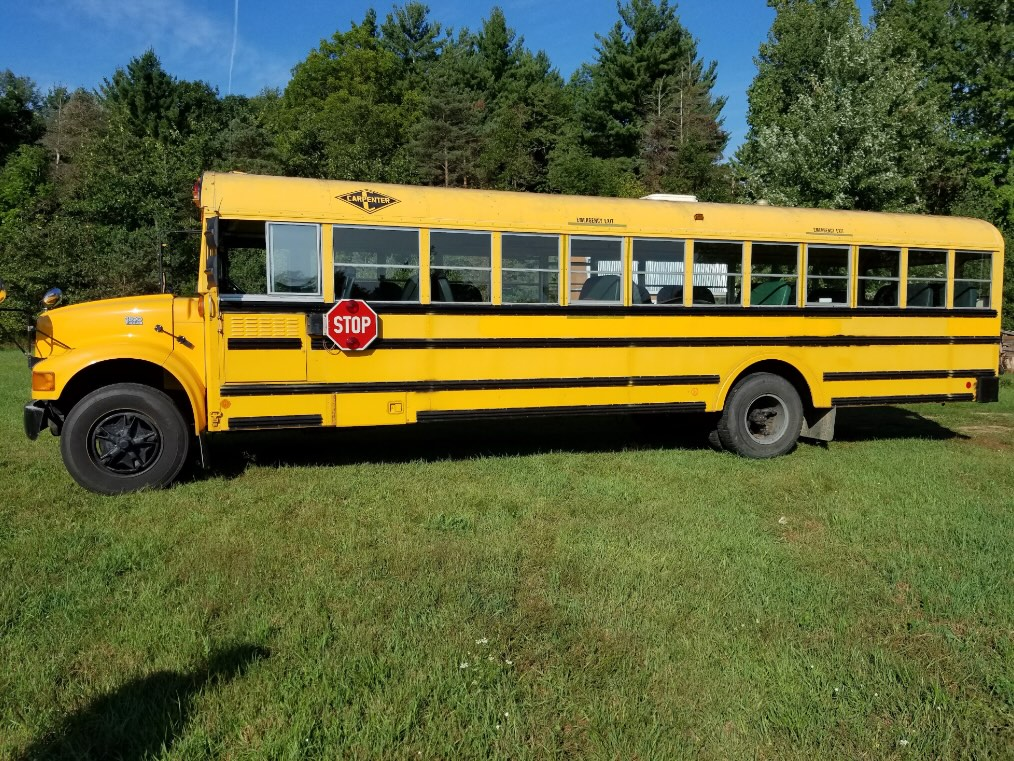
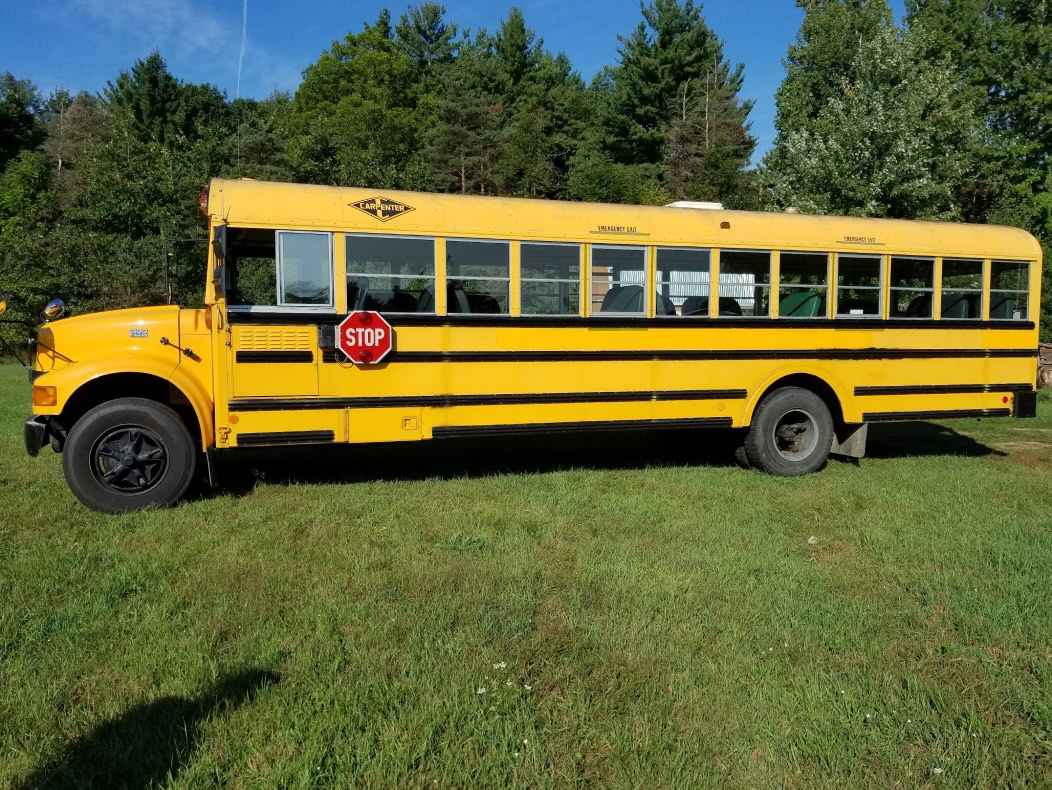
Swap the Skoolie photos for the build thread album
All 36 photos from the "Skoolie build thread" album replace the earlier
picks. Seven chapters now: retired from the route, raising the roof,
the front cap, paint, inside the shell, the rear ramp, finished. Plates
blurred in the three photos where they show.

diff --git a/builds/skoolie/index.html b/builds/skoolie/index.html
@@ -34,7 +34,7 @@
   <div class="bhero">
     <img src="img/finished.jpg" alt="The finished orange school bus, front three-quarter view, door open">
     <div class="over">
-      <div class="chips"><span class="tag y">BAY 02 · FOUR WHEELS</span><span class="tag">2016 – 2019</span><span class="tag">6 CHAPTERS</span></div>
+      <div class="chips"><span class="tag y">BAY 02 · FOUR WHEELS</span><span class="tag">2016 – 2019</span><span class="tag">7 CHAPTERS</span></div>
       <h1>Skoolie</h1>
       <p class="lede" style="color:var(--text)">A retired school bus with a raised roof, a garage in the back and a lounge up front. From the ‘alternative’ school to party bus.</p>
     </div>
@@ -66,91 +66,111 @@
     <nav class="rail" aria-label="Chapters">
       <a href="#ch-1"><b>01</b><span>Retired from the route</span></a>
       <a href="#ch-2"><b>02</b><span>Raising the roof</span></a>
-      <a href="#ch-3"><b>03</b><span>Not yellow any more</span></a>
-      <a href="#ch-4"><b>04</b><span>Inside the shell</span></a>
-      <a href="#ch-5"><b>05</b><span>Power, storage and air</span></a>
-      <a href="#ch-6"><b>06</b><span>Garage in the back, lounge up front</span></a>
+      <a href="#ch-3"><b>03</b><span>The front cap</span></a>
+      <a href="#ch-4"><b>04</b><span>Not yellow any more</span></a>
+      <a href="#ch-5"><b>05</b><span>Inside the shell</span></a>
+      <a href="#ch-6"><b>06</b><span>A garage in the back</span></a>
+      <a href="#ch-7"><b>07</b><span>Finished</span></a>
     </nav>
     <div class="chapters">
       <section class="ch" id="ch-1">
         <div class="ch-head"><span class="ch-no">CHAPTER 01 · SEP 2016</span><h2>Retired from the route</h2></div>
         <div class="prose">
           <p>It started as a retired yellow school bus: an International 3800 with a Carpenter body and the 7.3 litre T444E turbo diesel, with an automatic gearbox.</p>
-          <p>It came home in September 2016 and was parked next to the shop. Within a week the seats were out and the ceiling panels were down, leaving a bare steel shell with the ribs showing.</p>
+          <p>It came home in September 2016. Within two weeks the seats, ceiling panels and window glass were out, the emergency door was off the back, and it was a bare steel cage on wheels.</p>
         </div>
         <div class="shots">
           <figure class="w"><button type="button" data-img="img/as-bought.jpg" data-cap="The bus as bought, September 2016" aria-label="Enlarge: The bus as bought, September 2016"><img src="img/as-bought.jpg" alt="The bus as bought, September 2016" loading="lazy"></button><figcaption>The bus as bought, September 2016</figcaption></figure>
-          <figure><button type="button" data-img="img/arrival.jpg" data-cap="Parked by the shop, doors open, ready to strip" aria-label="Enlarge: Parked by the shop, doors open, ready to strip"><img src="img/arrival.jpg" alt="Parked by the shop, doors open, ready to strip" loading="lazy"></button><figcaption>Parked by the shop, doors open, ready to strip</figcaption></figure>
+          <figure><button type="button" data-img="img/stripped.jpg" data-cap="Stripped to the cage" aria-label="Enlarge: Stripped to the cage"><img src="img/stripped.jpg" alt="Stripped to the cage" loading="lazy"></button><figcaption>Stripped to the cage</figcaption></figure>
           <figure><button type="button" data-img="img/gutted.jpg" data-cap="Seats out, ceiling down, ribs showing" aria-label="Enlarge: Seats out, ceiling down, ribs showing"><img src="img/gutted.jpg" alt="Seats out, ceiling down, ribs showing" loading="lazy"></button><figcaption>Seats out, ceiling down, ribs showing</figcaption></figure>
+          <figure><button type="button" data-img="img/rear-open.jpg" data-cap="Emergency door off and the back opened up" aria-label="Enlarge: Emergency door off and the back opened up"><img src="img/rear-open.jpg" alt="Emergency door off and the back opened up" loading="lazy"></button><figcaption>Emergency door off and the back opened up</figcaption></figure>
         </div>
       </section>
       <section class="ch" id="ch-2">
         <div class="ch-head"><span class="ch-no">CHAPTER 02 · SEP – OCT 2016</span><h2>Raising the roof</h2></div>
         <div class="prose">
-          <p>A school bus is built for kids, so the first big job was headroom. The roof was cut free along both sides and above the windshield, lifted on the existing pillars, and new steel was let in to fill the gap.</p>
-          <p>The awkward part is the front, where a raised roof has to blend back into the original front cap. I worked that transition out over a photo of the bus in CAD before cutting anything, then built it on scaffolding. By the middle of October the new roof was on and skinned.</p>
+          <p>A school bus is built for kids, so the first big job was headroom. The roof was cut free along both sides above the windows, then lifted on threaded-rod jacks bolted between the old roof rail and the body.</p>
+          <p>With the roof up and braced, new steel went into the gap and fresh sheet metal skins went on along both sides, bent on a brake on the shop floor.</p>
         </div>
         <div class="shots">
-          <figure class="w"><button type="button" data-img="img/roof-scaffold.jpg" data-cap="New roof going on from the scaffold, October 2016" aria-label="Enlarge: New roof going on from the scaffold, October 2016"><img src="img/roof-scaffold.jpg" alt="New roof going on from the scaffold, October 2016" loading="lazy"></button><figcaption>New roof going on from the scaffold, October 2016</figcaption></figure>
-          <figure><button type="button" data-img="img/roof-cut.jpg" data-cap="Roof cut free from the front cap" aria-label="Enlarge: Roof cut free from the front cap"><img src="img/roof-cut.jpg" alt="Roof cut free from the front cap" loading="lazy"></button><figcaption>Roof cut free from the front cap</figcaption></figure>
-          <figure><button type="button" data-img="img/roof-open.jpg" data-cap="Looking forward through the cut" aria-label="Enlarge: Looking forward through the cut"><img src="img/roof-open.jpg" alt="Looking forward through the cut" loading="lazy"></button><figcaption>Looking forward through the cut</figcaption></figure>
-          <figure><button type="button" data-img="img/roof-raise.jpg" data-cap="Roof up, panels going in along the sides" aria-label="Enlarge: Roof up, panels going in along the sides"><img src="img/roof-raise.jpg" alt="Roof up, panels going in along the sides" loading="lazy"></button><figcaption>Roof up, panels going in along the sides</figcaption></figure>
-          <figure><button type="button" data-img="img/roof-cad.jpg" data-cap="Working out the front transition in CAD" aria-label="Enlarge: Working out the front transition in CAD"><img src="img/roof-cad.jpg" alt="Working out the front transition in CAD" loading="lazy"></button><figcaption>Working out the front transition in CAD</figcaption></figure>
-          <figure><button type="button" data-img="img/roof-raised.jpg" data-cap="Raised roof skinned, before paint" aria-label="Enlarge: Raised roof skinned, before paint"><img src="img/roof-raised.jpg" alt="Raised roof skinned, before paint" loading="lazy"></button><figcaption>Raised roof skinned, before paint</figcaption></figure>
+          <figure class="w"><button type="button" data-img="img/roof-raised.jpg" data-cap="Roof up and braced, side skins going on, October 2016" aria-label="Enlarge: Roof up and braced, side skins going on, October 2016"><img src="img/roof-raised.jpg" alt="Roof up and braced, side skins going on, October 2016" loading="lazy"></button><figcaption>Roof up and braced, side skins going on, October 2016</figcaption></figure>
+          <figure><button type="button" data-img="img/roof-jacks.jpg" data-cap="Threaded-rod jacks lifting the roof off the body" aria-label="Enlarge: Threaded-rod jacks lifting the roof off the body"><img src="img/roof-jacks.jpg" alt="Threaded-rod jacks lifting the roof off the body" loading="lazy"></button><figcaption>Threaded-rod jacks lifting the roof off the body</figcaption></figure>
+          <figure><button type="button" data-img="img/roof-brace.jpg" data-cap="Bracing the lifted roof" aria-label="Enlarge: Bracing the lifted roof"><img src="img/roof-brace.jpg" alt="Bracing the lifted roof" loading="lazy"></button><figcaption>Bracing the lifted roof</figcaption></figure>
+          <figure><button type="button" data-img="img/roof-forward.jpg" data-cap="Looking forward through the gap" aria-label="Enlarge: Looking forward through the gap"><img src="img/roof-forward.jpg" alt="Looking forward through the gap" loading="lazy"></button><figcaption>Looking forward through the gap</figcaption></figure>
+          <figure><button type="button" data-img="img/sheet-brake.jpg" data-cap="Bending skins on the brake" aria-label="Enlarge: Bending skins on the brake"><img src="img/sheet-brake.jpg" alt="Bending skins on the brake" loading="lazy"></button><figcaption>Bending skins on the brake</figcaption></figure>
+          <figure><button type="button" data-img="img/sheet-stack.jpg" data-cap="Skins cut and ready" aria-label="Enlarge: Skins cut and ready"><img src="img/sheet-stack.jpg" alt="Skins cut and ready" loading="lazy"></button><figcaption>Skins cut and ready</figcaption></figure>
+          <figure><button type="button" data-img="img/roof-skin.jpg" data-cap="Skinning the new roof" aria-label="Enlarge: Skinning the new roof"><img src="img/roof-skin.jpg" alt="Skinning the new roof" loading="lazy"></button><figcaption>Skinning the new roof</figcaption></figure>
+          <figure><button type="button" data-img="img/roof-skins-on.jpg" data-cap="Skins going on, front first" aria-label="Enlarge: Skins going on, front first"><img src="img/roof-skins-on.jpg" alt="Skins going on, front first" loading="lazy"></button><figcaption>Skins going on, front first</figcaption></figure>
         </div>
       </section>
       <section class="ch" id="ch-3">
-        <div class="ch-head"><span class="ch-no">CHAPTER 03 · OCT – NOV 2016</span><h2>Not yellow any more</h2></div>
+        <div class="ch-head"><span class="ch-no">CHAPTER 03 · OCT 2016</span><h2>The front cap</h2></div>
         <div class="prose">
-          <p>A school bus can’t stay yellow on the road, so it went orange. Everything was masked, the body was painted in the driveway, and the bumpers and wheels went light grey.</p>
-          <p>It was orange in time for a photo next to the other big project of 2016, the Rocket Car.</p>
+          <p>The awkward part of any roof raise is the front, where the new, taller roof has to meet the original front cap with its marker lights. I stretched and shrank sheet metal on a disc to get the compound curve, then let it in over the old cap.</p>
+          <p>By the middle of October the transition was finished and the roof was done.</p>
         </div>
         <div class="shots">
-          <figure class="w"><button type="button" data-img="img/paint-side.jpg" data-cap="Orange, with the windows still masked, November 2016" aria-label="Enlarge: Orange, with the windows still masked, November 2016"><img src="img/paint-side.jpg" alt="Orange, with the windows still masked, November 2016" loading="lazy"></button><figcaption>Orange, with the windows still masked, November 2016</figcaption></figure>
-          <figure><button type="button" data-img="img/paint-masked.jpg" data-cap="Wheels and bumper masked for paint" aria-label="Enlarge: Wheels and bumper masked for paint"><img src="img/paint-masked.jpg" alt="Wheels and bumper masked for paint" loading="lazy"></button><figcaption>Wheels and bumper masked for paint</figcaption></figure>
-          <figure><button type="button" data-img="img/paint-front.jpg" data-cap="The International nose in orange" aria-label="Enlarge: The International nose in orange"><img src="img/paint-front.jpg" alt="The International nose in orange" loading="lazy"></button><figcaption>The International nose in orange</figcaption></figure>
-          <figure><button type="button" data-img="img/with-rocket.jpg" data-cap="Two 2016 builds: the Skoolie and the Rocket Car" aria-label="Enlarge: Two 2016 builds: the Skoolie and the Rocket Car"><img src="img/with-rocket.jpg" alt="Two 2016 builds: the Skoolie and the Rocket Car" loading="lazy"></button><figcaption>Two 2016 builds: the Skoolie and the Rocket Car</figcaption></figure>
+          <figure class="w"><button type="button" data-img="img/roof-thumbs.jpg" data-cap="Roof done: my wife giving it a thumbs up from the top" aria-label="Enlarge: Roof done: my wife giving it a thumbs up from the top"><img src="img/roof-thumbs.jpg" alt="Roof done: my wife giving it a thumbs up from the top" loading="lazy"></button><figcaption>Roof done: my wife giving it a thumbs up from the top</figcaption></figure>
+          <figure><button type="button" data-img="img/front-inside.jpg" data-cap="The front transition from inside" aria-label="Enlarge: The front transition from inside"><img src="img/front-inside.jpg" alt="The front transition from inside" loading="lazy"></button><figcaption>The front transition from inside</figcaption></figure>
+          <figure><button type="button" data-img="img/shrinker.jpg" data-cap="Shrinking disc for the compound curves" aria-label="Enlarge: Shrinking disc for the compound curves"><img src="img/shrinker.jpg" alt="Shrinking disc for the compound curves" loading="lazy"></button><figcaption>Shrinking disc for the compound curves</figcaption></figure>
+          <figure><button type="button" data-img="img/front-cap.jpg" data-cap="New skin meeting the old front cap" aria-label="Enlarge: New skin meeting the old front cap"><img src="img/front-cap.jpg" alt="New skin meeting the old front cap" loading="lazy"></button><figcaption>New skin meeting the old front cap</figcaption></figure>
+          <figure><button type="button" data-img="img/front-cap-sun.jpg" data-cap="Front cap blended in" aria-label="Enlarge: Front cap blended in"><img src="img/front-cap-sun.jpg" alt="Front cap blended in" loading="lazy"></button><figcaption>Front cap blended in</figcaption></figure>
         </div>
       </section>
       <section class="ch" id="ch-4">
-        <div class="ch-head"><span class="ch-no">CHAPTER 04 · NOV 2016 – JUN 2017</span><h2>Inside the shell</h2></div>
+        <div class="ch-head"><span class="ch-no">CHAPTER 04 · OCT 2016</span><h2>Not yellow any more</h2></div>
         <div class="prose">
-          <p>The inside got closed-cell spray foam over the whole roof and walls, then white panels over the ribs, with gaps left for wiring and a roof vent.</p>
-          <p>At the back, the emergency door became the start of a garage: the rear wall was opened up and a heavy steel hinge line went in for a fold-down ramp.</p>
+          <p>A school bus can’t stay yellow on the road, so it went orange, sprayed in the yard. The bumpers and wheels went light grey.</p>
+          <p>It was orange in time for a photo next to the other big project of 2016, the Rocket Car.</p>
         </div>
         <div class="shots">
-          <figure class="w"><button type="button" data-img="img/spray-foam.jpg" data-cap="Spray foam over the roof and walls" aria-label="Enlarge: Spray foam over the roof and walls"><img src="img/spray-foam.jpg" alt="Spray foam over the roof and walls" loading="lazy"></button><figcaption>Spray foam over the roof and walls</figcaption></figure>
-          <figure><button type="button" data-img="img/ceiling.jpg" data-cap="White ceiling panels going up, wiring run down the middle" aria-label="Enlarge: White ceiling panels going up, wiring run down the middle"><img src="img/ceiling.jpg" alt="White ceiling panels going up, wiring run down the middle" loading="lazy"></button><figcaption>White ceiling panels going up, wiring run down the middle</figcaption></figure>
-          <figure><button type="button" data-img="img/rear-door.jpg" data-cap="Hinge line for the rear ramp, December 2016" aria-label="Enlarge: Hinge line for the rear ramp, December 2016"><img src="img/rear-door.jpg" alt="Hinge line for the rear ramp, December 2016" loading="lazy"></button><figcaption>Hinge line for the rear ramp, December 2016</figcaption></figure>
+          <figure class="w"><button type="button" data-img="img/painting.jpg" data-cap="Spraying it orange in the yard" aria-label="Enlarge: Spraying it orange in the yard"><img src="img/painting.jpg" alt="Spraying it orange in the yard" loading="lazy"></button><figcaption>Spraying it orange in the yard</figcaption></figure>
+          <figure><button type="button" data-img="img/paint-mask.jpg" data-cap="Masked up for the grey bumpers and wheels" aria-label="Enlarge: Masked up for the grey bumpers and wheels"><img src="img/paint-mask.jpg" alt="Masked up for the grey bumpers and wheels" loading="lazy"></button><figcaption>Masked up for the grey bumpers and wheels</figcaption></figure>
+          <figure><button type="button" data-img="img/with-rocket.jpg" data-cap="Two 2016 builds: the Skoolie and the Rocket Car" aria-label="Enlarge: Two 2016 builds: the Skoolie and the Rocket Car"><img src="img/with-rocket.jpg" alt="Two 2016 builds: the Skoolie and the Rocket Car" loading="lazy"></button><figcaption>Two 2016 builds: the Skoolie and the Rocket Car</figcaption></figure>
         </div>
       </section>
       <section class="ch" id="ch-5">
-        <div class="ch-head"><span class="ch-no">CHAPTER 05 · 2017</span><h2>Power, storage and air</h2></div>
+        <div class="ch-head"><span class="ch-no">CHAPTER 05 · NOV 2016 – JUN 2017</span><h2>Inside the shell</h2></div>
         <div class="prose">
-          <p>Underneath, steel cages went into the space between the frame rails. One carries the generator and its fuel can, another is an open storage box with the shore-power inlet beside it.</p>
-          <p>A window air conditioner sits in its own sheet-metal box let into the side of the bus. By the autumn of 2017 it was going on road trips.</p>
+          <p>Inside, the whole roof and walls got closed-cell spray foam. The rotten plywood floor at the front came up, down to bare steel.</p>
+          <p>Then the ceiling and walls went white, with overhead storage built along both sides and box fans let into the overheads for air.</p>
         </div>
         <div class="shots">
-          <figure class="w"><button type="button" data-img="img/generator.jpg" data-cap="Generator and fuel in a cage under the floor" aria-label="Enlarge: Generator and fuel in a cage under the floor"><img src="img/generator.jpg" alt="Generator and fuel in a cage under the floor" loading="lazy"></button><figcaption>Generator and fuel in a cage under the floor</figcaption></figure>
-          <figure><button type="button" data-img="img/storage-box.jpg" data-cap="Storage box under the floor, shore power beside it" aria-label="Enlarge: Storage box under the floor, shore power beside it"><img src="img/storage-box.jpg" alt="Storage box under the floor, shore power beside it" loading="lazy"></button><figcaption>Storage box under the floor, shore power beside it</figcaption></figure>
-          <figure><button type="button" data-img="img/ac-unit.jpg" data-cap="The air conditioner’s box, set into the side" aria-label="Enlarge: The air conditioner’s box, set into the side"><img src="img/ac-unit.jpg" alt="The air conditioner’s box, set into the side" loading="lazy"></button><figcaption>The air conditioner’s box, set into the side</figcaption></figure>
-          <figure><button type="button" data-img="img/road-trip.jpg" data-cap="On the road, October 2017" aria-label="Enlarge: On the road, October 2017"><img src="img/road-trip.jpg" alt="On the road, October 2017" loading="lazy"></button><figcaption>On the road, October 2017</figcaption></figure>
+          <figure class="w"><button type="button" data-img="img/foam-spray.jpg" data-cap="Spraying foam, in the full suit" aria-label="Enlarge: Spraying foam, in the full suit"><img src="img/foam-spray.jpg" alt="Spraying foam, in the full suit" loading="lazy"></button><figcaption>Spraying foam, in the full suit</figcaption></figure>
+          <figure><button type="button" data-img="img/foam-done.jpg" data-cap="Foam over the roof and walls" aria-label="Enlarge: Foam over the roof and walls"><img src="img/foam-done.jpg" alt="Foam over the roof and walls" loading="lazy"></button><figcaption>Foam over the roof and walls</figcaption></figure>
+          <figure><button type="button" data-img="img/floor-rot.jpg" data-cap="Rotten front floor up, down to steel" aria-label="Enlarge: Rotten front floor up, down to steel"><img src="img/floor-rot.jpg" alt="Rotten front floor up, down to steel" loading="lazy"></button><figcaption>Rotten front floor up, down to steel</figcaption></figure>
+          <figure><button type="button" data-img="img/ceiling-paint.jpg" data-cap="Painting the ceiling, overheads going in" aria-label="Enlarge: Painting the ceiling, overheads going in"><img src="img/ceiling-paint.jpg" alt="Painting the ceiling, overheads going in" loading="lazy"></button><figcaption>Painting the ceiling, overheads going in</figcaption></figure>
         </div>
       </section>
       <section class="ch" id="ch-6">
-        <div class="ch-head"><span class="ch-no">CHAPTER 06 · AUG 2019</span><h2>Garage in the back, lounge up front</h2></div>
+        <div class="ch-head"><span class="ch-no">CHAPTER 06 · JAN 2017</span><h2>A garage in the back</h2></div>
+        <div class="prose">
+          <p>At the back, the rear wall was opened up for a fold-down ramp. The hinge is a long steel shaft running through welded knuckles, with heavy coil springs to help lift the ramp.</p>
+          <p>Closed, it looks like a school bus’s back end. Open, a dirt bike rolls straight in.</p>
+        </div>
+        <div class="shots">
+          <figure class="w"><button type="button" data-img="img/ramp-hinge.jpg" data-cap="Spring-loaded ramp hinge, painted and ready" aria-label="Enlarge: Spring-loaded ramp hinge, painted and ready"><img src="img/ramp-hinge.jpg" alt="Spring-loaded ramp hinge, painted and ready" loading="lazy"></button><figcaption>Spring-loaded ramp hinge, painted and ready</figcaption></figure>
+          <figure><button type="button" data-img="img/rear-snow.jpg" data-cap="Ramp closed, January 2017" aria-label="Enlarge: Ramp closed, January 2017"><img src="img/rear-snow.jpg" alt="Ramp closed, January 2017" loading="lazy"></button><figcaption>Ramp closed, January 2017</figcaption></figure>
+        </div>
+      </section>
+      <section class="ch" id="ch-7">
+        <div class="ch-head"><span class="ch-no">CHAPTER 07 · AUG 2019</span><h2>Finished</h2></div>
         <div class="prose">
           <p>Finished, the back of the bus is a garage: the ramp folds down and a dirt bike rolls straight in. The breaker panel and inverter are on the garage wall.</p>
-          <p>Up front is the lounge: two dinettes with grey tables and orange cushions, and the driver’s seat. The orange fabric is surplus from Herman Miller, the office furniture maker in our town, which sells its leftovers cheap. The original STOP arm hangs on the back wall.</p>
+          <p>Up front is the lounge: two dinettes with grey tables and orange cushions, which fold down into a bed. The orange fabric is surplus from Herman Miller, the office furniture maker in our town, which sells its leftovers cheap. The original STOP arm hangs on the back wall, and an air conditioner is built into one of the benches.</p>
           <p>I built it to be modular, so things can be added or removed without affecting everything else. The overhead cabinets come down in two-door sections, so a shower could go in up to the ceiling. The space under the seats and bed was built to hold large water tanks, with an easy path for the plumbing.</p>
         </div>
         <div class="shots">
-          <figure class="w"><button type="button" data-img="img/ramp.jpg" data-cap="Ramp down, dirt bike in the garage" aria-label="Enlarge: Ramp down, dirt bike in the garage"><img src="img/ramp.jpg" alt="Ramp down, dirt bike in the garage" loading="lazy"></button><figcaption>Ramp down, dirt bike in the garage</figcaption></figure>
-          <figure><button type="button" data-img="img/garage-in.jpg" data-cap="Looking forward from the garage" aria-label="Enlarge: Looking forward from the garage"><img src="img/garage-in.jpg" alt="Looking forward from the garage" loading="lazy"></button><figcaption>Looking forward from the garage</figcaption></figure>
-          <figure><button type="button" data-img="img/garage-power.jpg" data-cap="Breaker panel and inverter on the garage wall" aria-label="Enlarge: Breaker panel and inverter on the garage wall"><img src="img/garage-power.jpg" alt="Breaker panel and inverter on the garage wall" loading="lazy"></button><figcaption>Breaker panel and inverter on the garage wall</figcaption></figure>
-          <figure><button type="button" data-img="img/lounge.jpg" data-cap="The lounge, looking back to the STOP arm" aria-label="Enlarge: The lounge, looking back to the STOP arm"><img src="img/lounge.jpg" alt="The lounge, looking back to the STOP arm" loading="lazy"></button><figcaption>The lounge, looking back to the STOP arm</figcaption></figure>
-          <figure><button type="button" data-img="img/finished.jpg" data-cap="Finished, August 2019" aria-label="Enlarge: Finished, August 2019"><img src="img/finished.jpg" alt="Finished, August 2019" loading="lazy"></button><figcaption>Finished, August 2019</figcaption></figure>
-          <figure><button type="button" data-img="img/dog.jpg" data-cap="The best seat on the bus" aria-label="Enlarge: The best seat on the bus"><img src="img/dog.jpg" alt="The best seat on the bus" loading="lazy"></button><figcaption>The best seat on the bus</figcaption></figure>
+          <figure class="w"><button type="button" data-img="img/finished.jpg" data-cap="Finished, August 2019" aria-label="Enlarge: Finished, August 2019"><img src="img/finished.jpg" alt="Finished, August 2019" loading="lazy"></button><figcaption>Finished, August 2019</figcaption></figure>
+          <figure><button type="button" data-img="img/ramp.jpg" data-cap="Ramp down, garage open" aria-label="Enlarge: Ramp down, garage open"><img src="img/ramp.jpg" alt="Ramp down, garage open" loading="lazy"></button><figcaption>Ramp down, garage open</figcaption></figure>
+          <figure><button type="button" data-img="img/overheads.jpg" data-cap="Overhead cabinets, breaker panel and inverter" aria-label="Enlarge: Overhead cabinets, breaker panel and inverter"><img src="img/overheads.jpg" alt="Overhead cabinets, breaker panel and inverter" loading="lazy"></button><figcaption>Overhead cabinets, breaker panel and inverter</figcaption></figure>
+          <figure><button type="button" data-img="img/dinette.jpg" data-cap="A dinette with orange cushions" aria-label="Enlarge: A dinette with orange cushions"><img src="img/dinette.jpg" alt="A dinette with orange cushions" loading="lazy"></button><figcaption>A dinette with orange cushions</figcaption></figure>
+          <figure><button type="button" data-img="img/bed.jpg" data-cap="Dinette folded down into a bed" aria-label="Enlarge: Dinette folded down into a bed"><img src="img/bed.jpg" alt="Dinette folded down into a bed" loading="lazy"></button><figcaption>Dinette folded down into a bed</figcaption></figure>
+          <figure><button type="button" data-img="img/lounge-back.jpg" data-cap="The lounge, looking back to the STOP arm" aria-label="Enlarge: The lounge, looking back to the STOP arm"><img src="img/lounge-back.jpg" alt="The lounge, looking back to the STOP arm" loading="lazy"></button><figcaption>The lounge, looking back to the STOP arm</figcaption></figure>
+          <figure><button type="button" data-img="img/lounge.jpg" data-cap="Lounge lights on" aria-label="Enlarge: Lounge lights on"><img src="img/lounge.jpg" alt="Lounge lights on" loading="lazy"></button><figcaption>Lounge lights on</figcaption></figure>
+          <figure><button type="button" data-img="img/driver.jpg" data-cap="The driver’s seat" aria-label="Enlarge: The driver’s seat"><img src="img/driver.jpg" alt="The driver’s seat" loading="lazy"></button><figcaption>The driver’s seat</figcaption></figure>
+          <figure><button type="button" data-img="img/ac-bench.jpg" data-cap="Air conditioner built into a bench" aria-label="Enlarge: Air conditioner built into a bench"><img src="img/ac-bench.jpg" alt="Air conditioner built into a bench" loading="lazy"></button><figcaption>Air conditioner built into a bench</figcaption></figure>
+          <figure><button type="button" data-img="img/fans.jpg" data-cap="Box fans in the overheads" aria-label="Enlarge: Box fans in the overheads"><img src="img/fans.jpg" alt="Box fans in the overheads" loading="lazy"></button><figcaption>Box fans in the overheads</figcaption></figure>
         </div>
       </section>
     </div>
@@ -158,11 +178,11 @@
 
   <div class="section-label">TIMELINE</div>
   <div class="log">
-    <div><time>SEP 2016</time><span>Retired International 3800 school bus comes home. Stripped inside a week.</span></div>
-    <div><time>OCT 2016</time><span>Roof cut, raised and re-skinned.</span></div>
-    <div><time>NOV 2016</time><span>Painted orange.</span></div>
-    <div><time>DEC 2016</time><span>Spray foam. Rear wall opened for a ramp.</span></div>
-    <div><time>2017</time><span>Ceiling panels, generator and storage cages, air conditioning. First road trips.</span></div>
+    <div><time>SEP 2016</time><span>Retired International 3800 school bus comes home. Stripped to the cage in two weeks.</span></div>
+    <div><time>OCT 2016</time><span>Roof cut, raised and re-skinned. Front cap finished. Painted orange.</span></div>
+    <div><time>NOV 2016</time><span>Spray foam. Rotten front floor out.</span></div>
+    <div><time>JAN 2017</time><span>Spring-loaded rear ramp.</span></div>
+    <div><time>2017</time><span>Ceiling, walls and overheads. First road trips.</span></div>
     <div><time>2018</time><span>New glow plugs and glow plug relay.</span></div>
     <div><time>2019</time><span>New rear tires and rear brakes. Garage and lounge finished.</span></div>
     <div><time>NOV 2019</time><span>Sold. The new owners flew in and drove it home.</span></div>

diff --git a/builds/index.html b/builds/index.html
@@ -71,9 +71,9 @@
       <p style="color:var(--muted)">A retired International school bus with a raised roof, a motorcycle garage in the back and a lounge up front.</p>
       <nav class="vols" aria-label="Skoolie chapters" style="margin:0">
         <a href="/builds/skoolie/#ch-2"><b>ROOF</b><span>Cut and raised</span><small>Oct 2016</small></a>
-        <a href="/builds/skoolie/#ch-3"><b>PAINT</b><span>Orange</span><small>Nov 2016</small></a>
-        <a href="/builds/skoolie/#ch-5"><b>SYSTEMS</b><span>Power and air</span><small>2017</small></a>
-        <a href="/builds/skoolie/#ch-6"><b>FINISHED</b><span>Garage and lounge</span><small>Aug 2019</small></a>
+        <a href="/builds/skoolie/#ch-4"><b>PAINT</b><span>Orange</span><small>Oct 2016</small></a>
+        <a href="/builds/skoolie/#ch-6"><b>GARAGE</b><span>Rear ramp</span><small>Jan 2017</small></a>
+        <a href="/builds/skoolie/#ch-7"><b>FINISHED</b><span>Garage and lounge</span><small>Aug 2019</small></a>
       </nav>
       <div><a class="btn" href="/builds/skoolie/">Read the build</a></div>
     </div>
